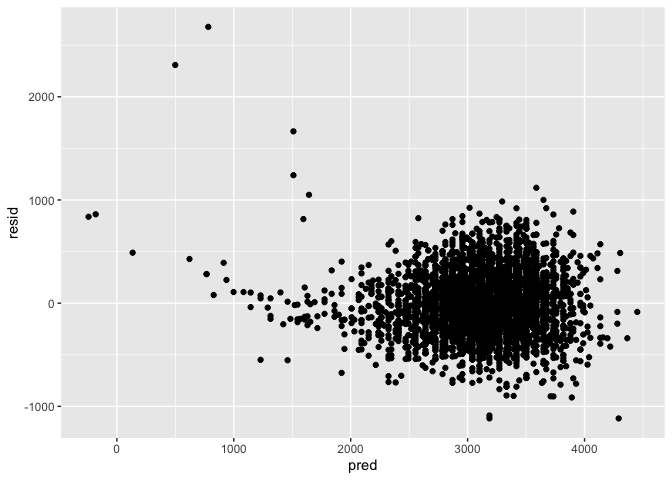
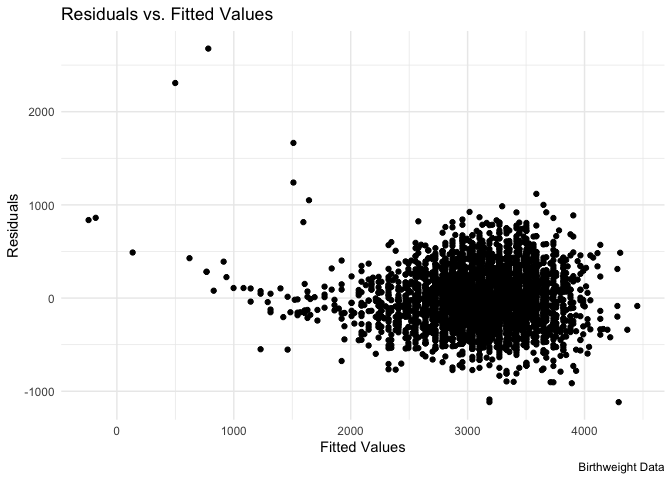
Updated models.

diff --git a/hw6.md b/hw6.md
@@ -308,7 +308,18 @@ correlate the fitted values with residuals
 
 ``` r
 fit = lm(bwt ~ bhead + blength, data = birthweight_factor_df)
-birthweight_factor_df  %>% modelr::add_residuals(fit)%>% modelr::add_predictions(fit) %>% ggplot(aes(x=pred, y = resid)) + geom_point() #Overall, there is not a strong correlation between fitted values and residuals
+birthweight_factor_df  %>% modelr::add_residuals(fit)%>% modelr::add_predictions(fit) %>% ggplot(aes(x=pred, y = resid)) + geom_point() +    labs(
+    title = "Residuals vs. Fitted Values",
+    x = "Fitted Values",
+    y = "Residuals",
+    caption = "Birthweight Data"
+  )  + theme_minimal() #Overall, there is not a strong correlation between fitted values and residuals
 ```
 
-![](hw6_files/figure-gfm/unnamed-chunk-10-1.png)<!-- -->
+![](hw6_files/figure-gfm/unnamed-chunk-10-1.png)<!-- --> Now I will fit
+more models.
+
+``` r
+fit_length_age = lm(bwt ~ blength + gaweeks, data = birthweight_factor_df)
+fit_three = lm (bwt ~ bhead + blength + babysex + bhead*blength*babysex, data = birthweight_factor_df)
+```
